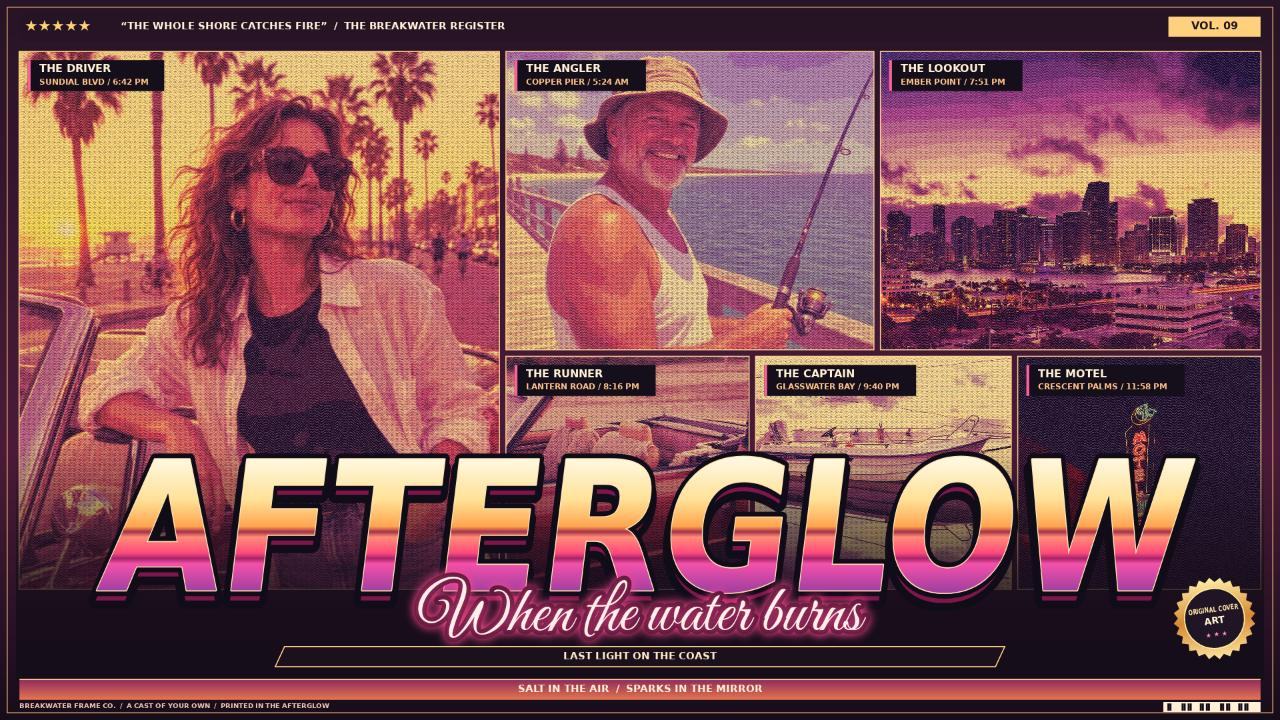
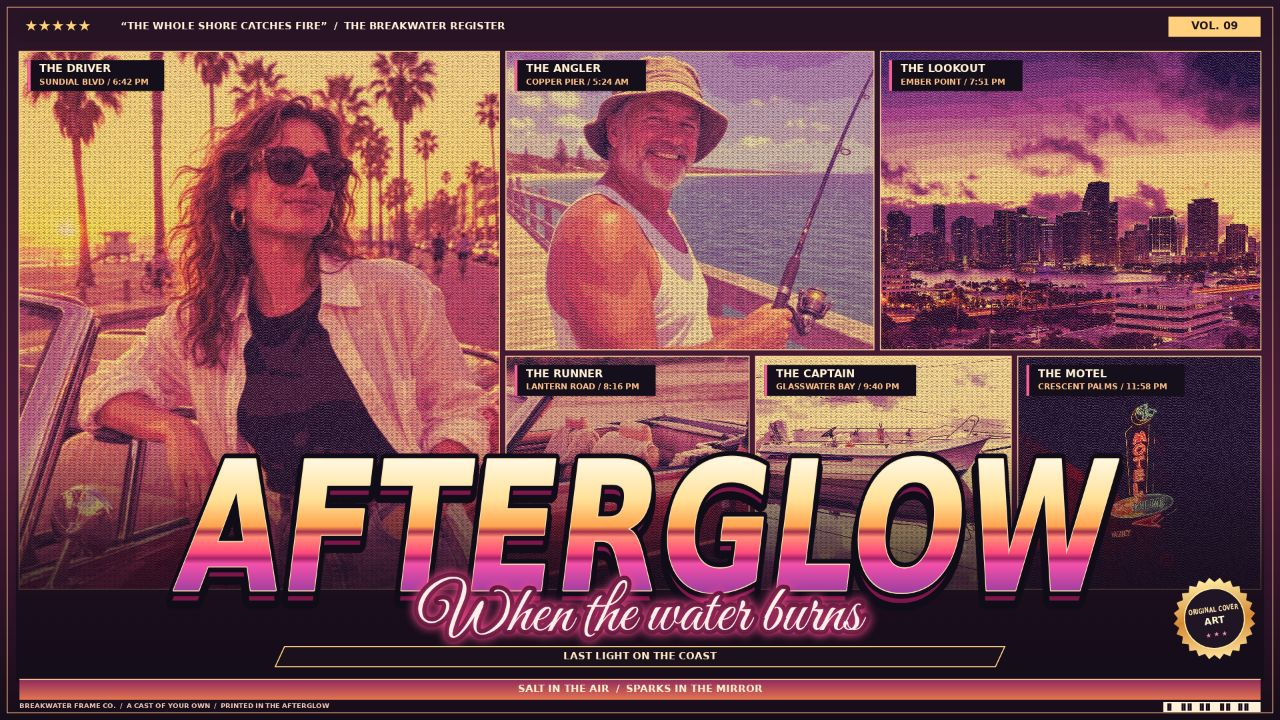
gta6-cover-art-01 surgical: motel neon sign fully clear of title (max .85->.73 wide only) + 1-cover.jpg re-captured

Changed region(s): [[0.0625, 0.6111, 0.9375, 0.8556]]

diff --git a/serve-mod.ts b/serve-mod.ts
@@ -1,0 +1,70 @@
+// Modified serve.ts binding to 0.0.0.0
+import { createReadStream, statSync } from 'node:fs';
+import { createServer } from 'node:http';
+import { extname, join, normalize, resolve, sep } from 'node:path';
+import { fileURLToPath } from 'node:url';
+
+const root = resolve(fileURLToPath(new URL('./app', import.meta.url)));
+const args = process.argv.slice(2);
+const portIndex = args.indexOf('--port');
+const requested = portIndex === -1 ? 8080 : Number(args[portIndex + 1]);
+const port = Number.isInteger(requested) && requested > 0 && requested < 65536 ? requested : 8080;
+
+const MIME: Record<string, string> = {
+  '.html': 'text/html; charset=utf-8',
+  '.js': 'text/javascript; charset=utf-8',
+  '.mjs': 'text/javascript; charset=utf-8',
+  '.css': 'text/css; charset=utf-8',
+  '.json': 'application/json; charset=utf-8',
+  '.png': 'image/png',
+  '.jpg': 'image/jpeg',
+  '.jpeg': 'image/jpeg',
+  '.gif': 'image/gif',
+  '.webp': 'image/webp',
+  '.svg': 'image/svg+xml',
+  '.ico': 'image/x-icon',
+  '.woff2': 'font/woff2',
+  '.woff': 'font/woff',
+  '.ttf': 'font/ttf',
+  '.otf': 'font/otf',
+  '.bin': 'application/octet-stream',
+  '.wasm': 'application/wasm',
+  '.wav': 'audio/wav',
+  '.mp3': 'audio/mpeg',
+  '.ogg': 'audio/ogg',
+  '.txt': 'text/plain; charset=utf-8',
+};
+
+createServer((request, response) => {
+  const url = new URL(request.url ?? '/', 'http://localhost');
+  let pathname: string;
+  try {
+    pathname = decodeURIComponent(url.pathname);
+  } catch {
+    response.writeHead(400).end('bad request');
+    return;
+  }
+  if (pathname.endsWith('/')) pathname += 'index.html';
+  const file = resolve(join(root, normalize(pathname)));
+  if (file !== root && !file.startsWith(root + sep)) {
+    response.writeHead(403).end('forbidden');
+    return;
+  }
+  let size: number;
+  try {
+    const stats = statSync(file);
+    if (!stats.isFile()) throw new Error('not a file');
+    size = stats.size;
+  } catch {
+    response.writeHead(404).end('not found');
+    return;
+  }
+  response.writeHead(200, {
+    'content-type': MIME[extname(file).toLowerCase()] ?? 'application/octet-stream',
+    'content-length': size,
+    'cache-control': 'no-store',
+  });
+  createReadStream(file).pipe(response);
+}).listen(port, '0.0.0.0', () => {
+  console.log(`app/ is on http://0.0.0.0:${port}`);
+});

diff --git a/app/src/cover.js b/app/src/cover.js
@@ -193,7 +193,8 @@ const Cover = (() => {
 
   function title(ctx, state, w, h, u) {
     const wide = state.format === 'wide';
-    const baseline = h * (state.titlePos === 'centre' ? .58 : wide ? .82 : .825);
+    const isOver = state.titlePos === 'over';
+    const baseline = h * (state.titlePos === 'centre' ? .58 : isOver ? .82 : .825);
     const size = u * (wide ? .25 : .164) * state.size / 100;
     const scriptSize = u * (wide ? .091 : .079);
     const scriptOffset = u * (wide ? .055 : .046);
@@ -208,7 +209,7 @@ const Cover = (() => {
     ctx.textBaseline = 'alphabetic';
     ctx.lineJoin = 'round';
     ctx.font = size + 'px Display, sans-serif';
-    const word = state.title.trim().toUpperCase(), max = w * .85;
+    const word = state.title.trim().toUpperCase(), max = w * (isOver ? .73 : .85);
     if (word) {
       ctx.lineWidth = u * .023;
       ctx.strokeStyle = '#100d19';
